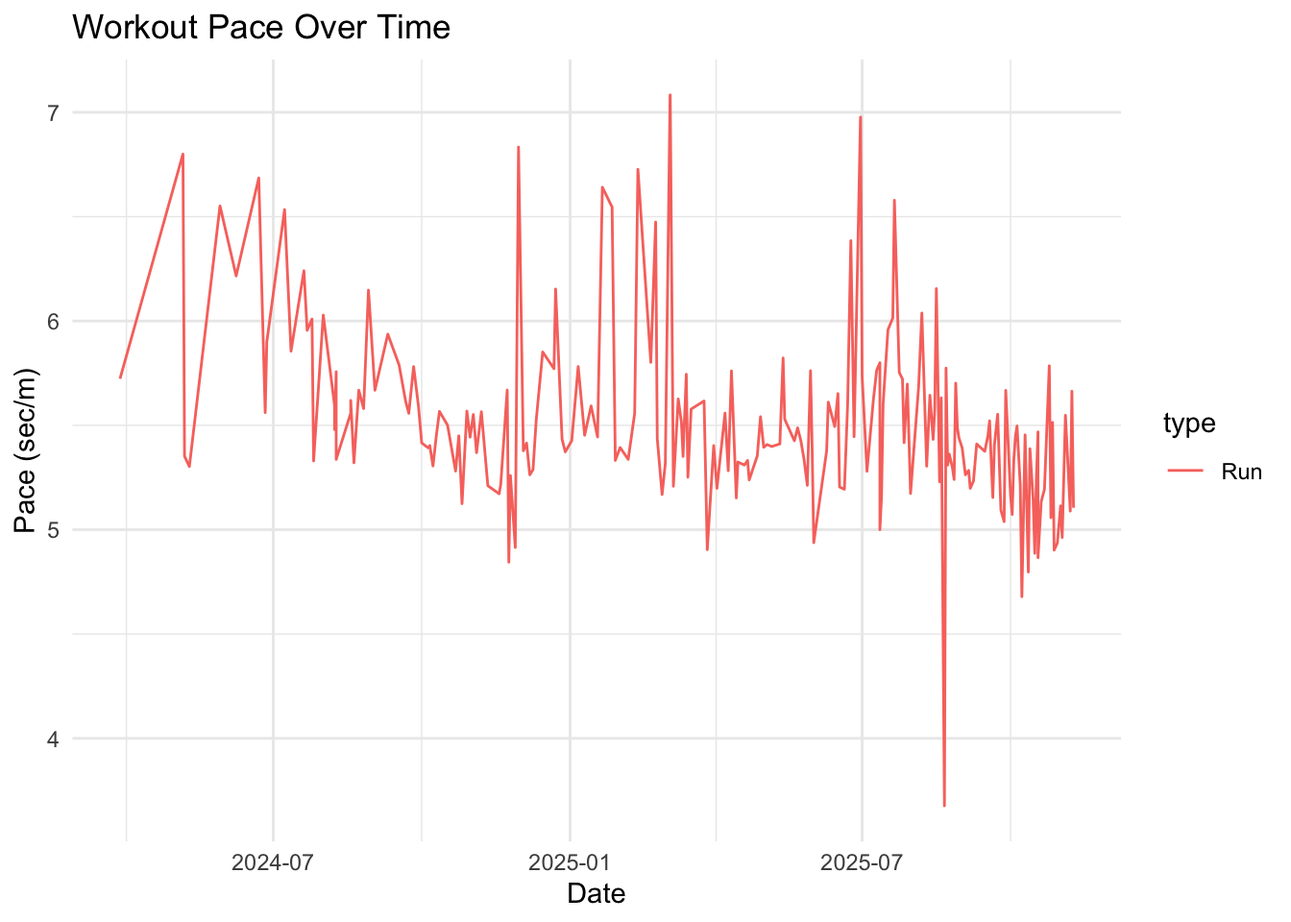
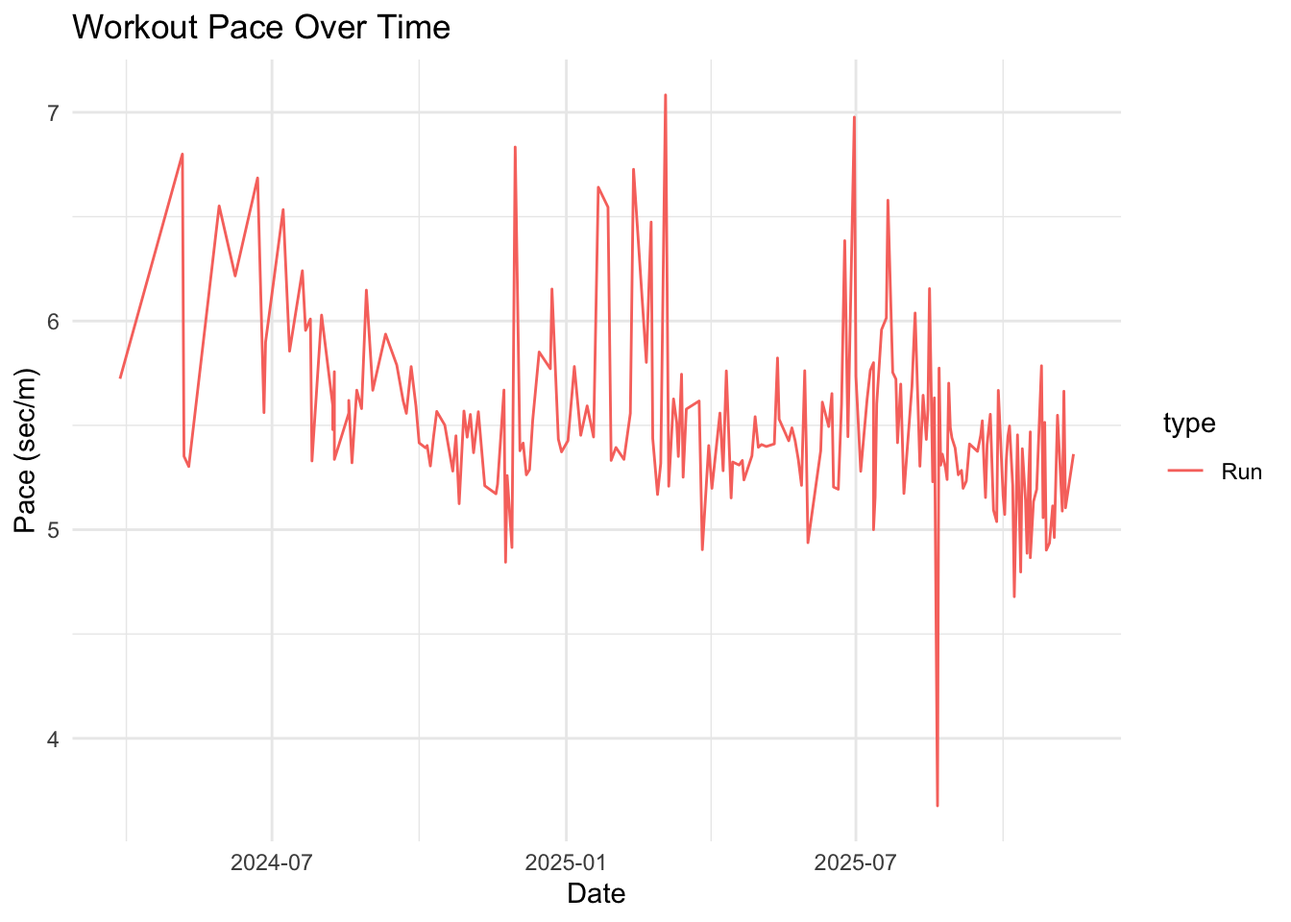
Built site for gh-pages

diff --git a/index.html b/index.html
@@ -174,8 +174,8 @@ ul.task-list li input[type="checkbox"] {
 <pre><code>Pace: 8 minutes 13 seconds per mile</code></pre>
 </div>
 <div class="cell-output-display">
-<div class="leaflet html-widget html-fill-item" id="htmlwidget-19a93bd866503c4d781c" style="width:100%;height:464px;"></div>
-<script type="application/json" data-for="htmlwidget-19a93bd866503c4d781c">{"x":{"options":{"crs":{"crsClass":"L.CRS.EPSG3857","code":null,"proj4def":null,"projectedBounds":null,"options":{}}},"calls":[{"method":"addProviderTiles","args":["CartoDB.Positron",null,null,{"errorTileUrl":"","noWrap":false,"detectRetina":false}]},{"method":"addPolylines","args":[[[[{"lng":[-89.38617706298828,-89.38417816162109,-89.38420867919922,-89.38466644287109,-89.38553619384766,-89.38676452636719,-89.38721466064453,-89.39302062988281,-89.39389038085938,-89.39460754394531,-89.39500427246094,-89.39512634277344,-89.40042877197266,-89.400634765625,-89.40062713623047,-89.39989471435547,-89.39975738525391,-89.39962005615234,-89.39823913574219,-89.39754486083984,-89.39686584472656,-89.3948974609375,-89.39380645751953,-89.38981628417969,-89.3896484375,-89.38962554931641,-89.38981628417969,-89.39023590087891,-89.39030456542969,-89.39180755615234,-89.39206695556641,-89.39263916015625,-89.39280700683594,-89.39421081542969,-89.39888000488281,-89.400390625,-89.40058135986328,-89.40092468261719,-89.40139007568359,-89.40185546875,-89.40255737304688,-89.40374755859375,-89.40403747558594,-89.40455627441406,-89.40499877929688,-89.40705871582031,-89.40819549560547,-89.40867614746094,-89.40945434570312,-89.40950775146484,-89.40937042236328,-89.41098022460938,-89.41127014160156,-89.41159057617188,-89.41215515136719,-89.41563415527344,-89.41870880126953,-89.41999053955078,-89.42061614990234,-89.42122650146484,-89.42158508300781,-89.42106628417969,-89.42116546630859,-89.42144012451172,-89.42205810546875,-89.42473602294922,-89.42605590820312,-89.42673492431641,-89.42756652832031,-89.42866516113281,-89.43008422851562,-89.43183898925781,-89.43265533447266,-89.43280792236328,-89.43251037597656,-89.43270874023438,-89.43318939208984,-89.43415069580078,-89.434814453125,-89.43644714355469,-89.43783569335938,-89.43853759765625,-89.43909454345703,-89.43944549560547,-89.4404296875,-89.44168090820312,-89.4434814453125,-89.44352722167969,-89.442626953125,-89.44198608398438,-89.44094848632812,-89.44060516357422,-89.44027709960938,-89.43877410888672,-89.43869781494141,-89.43743133544922,-89.43698883056641,-89.43650054931641,-89.43638610839844,-89.43626403808594,-89.43465423583984,-89.43210601806641,-89.43148803710938,-89.43074035644531,-89.43003082275391,-89.42978668212891,-89.42982482910156,-89.42927551269531,-89.4285888671875,-89.42723846435547,-89.42659759521484,-89.42649078369141,-89.42673492431641,-89.42470550537109,-89.42457580566406,-89.42450714111328,-89.42401123046875,-89.42388153076172,-89.4237060546875,-89.42269134521484,-89.42179107666016,-89.42058563232422,-89.41925048828125,-89.41774749755859,-89.41713714599609,-89.41695404052734,-89.41671752929688,-89.41593933105469,-89.41419982910156,-89.41300964355469,-89.41156768798828,-89.40950775146484,-89.40800476074219,-89.40708923339844,-89.40693664550781,-89.40689086914062,-89.40695953369141,-89.40719604492188,-89.40719604492188,-89.40705108642578,-89.40427398681641,-89.40412902832031,-89.40409088134766,-89.4041748046875,-89.40718078613281,-89.40727996826172,-89.40700531005859,-89.40443420410156,-89.40410614013672,-89.40407562255859,-89.4029541015625,-89.40200042724609,-89.40068817138672,-89.39933776855469,-89.39907073974609,-89.39918518066406,-89.39912414550781,-89.39852905273438,-89.39675140380859,-89.394287109375,-89.3941650390625,-89.39408111572266,-89.39376068115234,-89.39350891113281,-89.38821411132812,-89.38753509521484,-89.38746643066406,-89.38800048828125,-89.38636016845703,-89.38489532470703,-89.3841552734375,-89.38373565673828,-89.38328552246094,-89.38069915771484,-89.37820434570312,-89.37819671630859,-89.37884521484375,-89.37873077392578,-89.36464691162109,-89.3641357421875,-89.3624267578125,-89.36203002929688,-89.36157989501953,-89.35930633544922,-89.35842895507812,-89.35528564453125,-89.35463714599609,-89.35409545898438,-89.35395050048828,-89.35256958007812,-89.35066986083984,-89.34878540039062,-89.34865570068359,-89.34862518310547,-89.34735107421875,-89.34587860107422,-89.34521484375,-89.34442138671875,-89.34130096435547,-89.34102630615234,-89.34074401855469,-89.34025573730469,-89.33941650390625,-89.33818817138672,-89.33757781982422,-89.33699798583984,-89.33661651611328,-89.33636474609375,-89.33576965332031,-89.33052825927734,-89.32950592041016,-89.32838439941406,-89.32619476318359,-89.32467651367188,-89.32412719726562,-89.32400512695312,-89.32421875,-89.32577514648438,-89.32615661621094,-89.32772827148438,-89.32807922363281,-89.32965850830078,-89.33110046386719,-89.33219909667969,-89.33300018310547,-89.33422088623047,-89.33470153808594,-89.33541107177734,-89.33713531494141,-89.33793640136719,-89.3385009765625,-89.339111328125,-89.34032440185547,-89.34125518798828,-89.342041015625,-89.34186553955078,-89.34111022949219,-89.34101867675781,-89.34211730957031,-89.34317016601562,-89.34333801269531,-89.34421539306641,-89.34605407714844,-89.34661865234375,-89.34809875488281,-89.34886932373047,-89.34993743896484,-89.35054016113281,-89.35071563720703,-89.35049438476562,-89.34999847412109,-89.34957885742188,-89.34930419921875,-89.34909820556641,-89.34859466552734,-89.34706878662109,-89.34609985351562,-89.34317779541016,-89.3424072265625,-89.34153747558594,-89.33872985839844,-89.33815765380859,-89.33782958984375,-89.33673095703125,-89.33690643310547,-89.33693695068359,-89.33631896972656,-89.33751678466797,-89.33792877197266,-89.33824920654297,-89.33884429931641,-89.34044647216797,-89.34133148193359,-89.34220886230469,-89.34283447265625,-89.34418487548828,-89.34800720214844,-89.34947967529297,-89.35105895996094,-89.35299682617188,-89.353515625,-89.35422515869141,-89.35492706298828,-89.355224609375,-89.35573577880859,-89.35601806640625,-89.35691070556641,-89.35868835449219,-89.36054992675781,-89.36123657226562,-89.36261749267578,-89.36374664306641,-89.36521148681641,-89.36686706542969,-89.36722564697266,-89.36857604980469,-89.37039947509766,-89.37275695800781,-89.373291015625,-89.37411499023438,-89.37429809570312,-89.37535858154297,-89.37580871582031,-89.37699890136719,-89.37741088867188,-89.37764739990234,-89.37738037109375,-89.37738800048828,-89.37774658203125,-89.37897491455078,-89.37926483154297,-89.37973785400391,-89.38002777099609,-89.38053894042969,-89.38182067871094,-89.38238525390625,-89.38318634033203,-89.38396453857422,-89.38399505615234,-89.38414764404297,-89.38858032226562,-89.38868713378906,-89.38874053955078,-89.38868713378906,-89.3895263671875,-89.38967132568359,-89.3939208984375,-89.39486694335938,-89.396728515625,-89.39735412597656,-89.39815521240234,-89.39965057373047,-89.39972686767578,-89.39947509765625,-89.39769744873047,-89.39735412597656,-89.39688110351562,-89.39576721191406,-89.39537048339844,-89.39493560791016,-89.38676452636719,-89.38637542724609,-89.38565826416016,-89.38315582275391],"lat":[43.07470703125,43.07312774658203,43.07294845581055,43.07270050048828,43.0720100402832,43.07122039794922,43.07080841064453,43.06670761108398,43.06628036499023,43.06670761108398,43.06682968139648,43.06678771972656,43.06314849853516,43.06288909912109,43.06214904785156,43.06206893920898,43.06197738647461,43.0595703125,43.05769729614258,43.05709838867188,43.05691909790039,43.05709838867188,43.05693817138672,43.05685806274414,43.05678939819336,43.05561828613281,43.0540885925293,43.05386734008789,43.05304718017578,43.05019760131836,43.04986953735352,43.04977035522461,43.04912948608398,43.04917907714844,43.04975891113281,43.05047988891602,43.05075836181641,43.05307769775391,43.05437850952148,43.05508041381836,43.05584716796875,43.05680847167969,43.05673980712891,43.05627822875977,43.05612945556641,43.05622863769531,43.05619812011719,43.05598831176758,43.05487060546875,43.05431747436523,43.05254745483398,43.05009078979492,43.04977035522461,43.04964828491211,43.04962921142578,43.04969787597656,43.04891967773438,43.04890060424805,43.04874801635742,43.04847717285156,43.04803848266602,43.04631805419922,43.04595947265625,43.04567718505859,43.04554748535156,43.04559707641602,43.04575729370117,43.04573822021484,43.04547882080078,43.04487991333008,43.04433059692383,43.04330825805664,43.04242706298828,43.04153060913086,43.03976821899414,43.03911972045898,43.03867721557617,43.03833770751953,43.03822708129883,43.03818893432617,43.03850936889648,43.03881072998047,43.03923034667969,43.03936767578125,43.0394401550293,43.03936004638672,43.03947067260742,43.04016876220703,43.04065704345703,43.0411491394043,43.04229736328125,43.04308700561523,43.04442977905273,43.04727935791016,43.04837036132812,43.0495491027832,43.05035781860352,43.05093002319336,43.05183792114258,43.05215072631836,43.05326843261719,43.05495834350586,43.05475997924805,43.05484008789062,43.05527877807617,43.05532836914062,43.05545043945312,43.05580902099609,43.05608749389648,43.05701065063477,43.05727005004883,43.05751800537109,43.05854797363281,43.05996704101562,43.05996704101562,43.05982971191406,43.05657958984375,43.05606842041016,43.05596923828125,43.05616760253906,43.0565185546875,43.05755996704102,43.05862808227539,43.05953979492188,43.05936813354492,43.05870056152344,43.0584602355957,43.05820846557617,43.05804824829102,43.0583381652832,43.05836868286133,43.05810928344727,43.05835723876953,43.05831909179688,43.05856704711914,43.05938720703125,43.0618782043457,43.06214904785156,43.06306076049805,43.06313705444336,43.06313705444336,43.06319046020508,43.06341934204102,43.0641975402832,43.06427764892578,43.06628799438477,43.06639862060547,43.0664176940918,43.06652069091797,43.06986999511719,43.07014846801758,43.07012939453125,43.06975936889648,43.06917953491211,43.06932830810547,43.06990051269531,43.07077026367188,43.07086944580078,43.07087707519531,43.07080078125,43.0706901550293,43.0700798034668,43.06977844238281,43.06974029541016,43.07347869873047,43.07405853271484,43.07415771484375,43.07469940185547,43.07479858398438,43.07574844360352,43.07647705078125,43.07666778564453,43.07706069946289,43.07873916625977,43.08055877685547,43.0806999206543,43.08124923706055,43.08141708374023,43.09130859375,43.09117889404297,43.09033966064453,43.09008026123047,43.08951950073242,43.08826065063477,43.08795928955078,43.0859375,43.08622741699219,43.08588027954102,43.08589935302734,43.08686828613281,43.08863830566406,43.08913803100586,43.08927917480469,43.08964920043945,43.08971786499023,43.0899772644043,43.0903205871582,43.08995056152344,43.08993911743164,43.09000015258789,43.0903205871582,43.09051895141602,43.09040832519531,43.09083938598633,43.09066772460938,43.0907096862793,43.09092712402344,43.09138870239258,43.09151077270508,43.08971786499023,43.08926773071289,43.0884895324707,43.08625793457031,43.08272933959961,43.08123016357422,43.08052825927734,43.07954025268555,43.07695770263672,43.07590866088867,43.07577896118164,43.0748291015625,43.0732307434082,43.07209777832031,43.07148742675781,43.07133865356445,43.07159805297852,43.07160949707031,43.07146072387695,43.07085037231445,43.07154846191406,43.07160949707031,43.07138824462891,43.07021713256836,43.06887054443359,43.0682487487793,43.06808853149414,43.06784820556641,43.06769943237305,43.06694030761719,43.06719970703125,43.06715774536133,43.06644058227539,43.06570816040039,43.06517028808594,43.06422805786133,43.06284713745117,43.06142807006836,43.05999755859375,43.05912780761719,43.05819702148438,43.05749893188477,43.05714797973633,43.05706024169922,43.05717849731445,43.05788040161133,43.05921936035156,43.06024932861328,43.05886077880859,43.05860900878906,43.05857849121094,43.0589599609375,43.0588493347168,43.05854034423828,43.05598831176758,43.05406951904297,43.05222702026367,43.05014038085938,43.04969024658203,43.05068969726562,43.05113983154297,43.05104064941406,43.05098724365234,43.05084991455078,43.05032730102539,43.05023956298828,43.04977035522461,43.05011749267578,43.04987716674805,43.04946899414062,43.04961776733398,43.04961013793945,43.04941940307617,43.04908752441406,43.04879760742188,43.04784774780273,43.047607421875,43.04718780517578,43.04669952392578,43.04705810546875,43.04701995849609,43.04673004150391,43.04621887207031,43.04496002197266,43.04436874389648,43.04405975341797,43.04417037963867,43.04462051391602,43.0460205078125,43.04648971557617,43.04685974121094,43.0471076965332,43.04776763916016,43.04818725585938,43.04975891113281,43.05049896240234,43.05109786987305,43.05136871337891,43.05147933959961,43.05239868164062,43.0536994934082,43.05392074584961,43.05416870117188,43.05414962768555,43.0536994934082,43.05347061157227,43.05355834960938,43.05312728881836,43.05318832397461,43.0540885925293,43.05422973632812,43.0543098449707,43.05439758300781,43.05482864379883,43.05596923828125,43.05606842041016,43.05681991577148,43.05695724487305,43.05709838867188,43.05693817138672,43.05703735351562,43.05760955810547,43.0595588684082,43.06269073486328,43.06301879882812,43.06319046020508,43.06373977661133,43.06417846679688,43.06497955322266,43.06507873535156,43.06549072265625,43.07125854492188,43.07172012329102,43.07204818725586,43.07394027709961]}]]],null,null,{"interactive":true,"className":"","stroke":true,"color":"blue","weight":4,"opacity":0.5,"fill":false,"fillColor":"blue","fillOpacity":0.2,"smoothFactor":1,"noClip":false},null,null,null,{"interactive":false,"permanent":false,"direction":"auto","opacity":1,"offset":[0,0],"textsize":"10px","textOnly":false,"className":"","sticky":true},null]},{"method":"addMarkers","args":[43.07394027709961,-89.38315582275391,null,null,null,{"interactive":true,"draggable":false,"keyboard":true,"title":"","alt":"","zIndexOffset":0,"opacity":1,"riseOnHover":false,"riseOffset":250},"🏁 Madison Marathon 2025",null,null,null,null,{"interactive":false,"permanent":false,"direction":"auto","opacity":1,"offset":[0,0],"textsize":"10px","textOnly":false,"className":"","sticky":true},null]}],"limits":{"lat":[43.03818893432617,43.09151077270508],"lng":[-89.44352722167969,-89.32400512695312]}},"evals":[],"jsHooks":[]}</script>
+<div class="leaflet html-widget html-fill-item" id="htmlwidget-68bea0c8e76a400081c7" style="width:100%;height:464px;"></div>
+<script type="application/json" data-for="htmlwidget-68bea0c8e76a400081c7">{"x":{"options":{"crs":{"crsClass":"L.CRS.EPSG3857","code":null,"proj4def":null,"projectedBounds":null,"options":{}}},"calls":[{"method":"addProviderTiles","args":["CartoDB.Positron",null,null,{"errorTileUrl":"","noWrap":false,"detectRetina":false}]},{"method":"addPolylines","args":[[[[{"lng":[-89.38617706298828,-89.38417816162109,-89.38420867919922,-89.38466644287109,-89.38553619384766,-89.38676452636719,-89.38721466064453,-89.39302062988281,-89.39389038085938,-89.39460754394531,-89.39500427246094,-89.39512634277344,-89.40042877197266,-89.400634765625,-89.40062713623047,-89.39989471435547,-89.39975738525391,-89.39962005615234,-89.39823913574219,-89.39754486083984,-89.39686584472656,-89.3948974609375,-89.39380645751953,-89.38981628417969,-89.3896484375,-89.38962554931641,-89.38981628417969,-89.39023590087891,-89.39030456542969,-89.39180755615234,-89.39206695556641,-89.39263916015625,-89.39280700683594,-89.39421081542969,-89.39888000488281,-89.400390625,-89.40058135986328,-89.40092468261719,-89.40139007568359,-89.40185546875,-89.40255737304688,-89.40374755859375,-89.40403747558594,-89.40455627441406,-89.40499877929688,-89.40705871582031,-89.40819549560547,-89.40867614746094,-89.40945434570312,-89.40950775146484,-89.40937042236328,-89.41098022460938,-89.41127014160156,-89.41159057617188,-89.41215515136719,-89.41563415527344,-89.41870880126953,-89.41999053955078,-89.42061614990234,-89.42122650146484,-89.42158508300781,-89.42106628417969,-89.42116546630859,-89.42144012451172,-89.42205810546875,-89.42473602294922,-89.42605590820312,-89.42673492431641,-89.42756652832031,-89.42866516113281,-89.43008422851562,-89.43183898925781,-89.43265533447266,-89.43280792236328,-89.43251037597656,-89.43270874023438,-89.43318939208984,-89.43415069580078,-89.434814453125,-89.43644714355469,-89.43783569335938,-89.43853759765625,-89.43909454345703,-89.43944549560547,-89.4404296875,-89.44168090820312,-89.4434814453125,-89.44352722167969,-89.442626953125,-89.44198608398438,-89.44094848632812,-89.44060516357422,-89.44027709960938,-89.43877410888672,-89.43869781494141,-89.43743133544922,-89.43698883056641,-89.43650054931641,-89.43638610839844,-89.43626403808594,-89.43465423583984,-89.43210601806641,-89.43148803710938,-89.43074035644531,-89.43003082275391,-89.42978668212891,-89.42982482910156,-89.42927551269531,-89.4285888671875,-89.42723846435547,-89.42659759521484,-89.42649078369141,-89.42673492431641,-89.42470550537109,-89.42457580566406,-89.42450714111328,-89.42401123046875,-89.42388153076172,-89.4237060546875,-89.42269134521484,-89.42179107666016,-89.42058563232422,-89.41925048828125,-89.41774749755859,-89.41713714599609,-89.41695404052734,-89.41671752929688,-89.41593933105469,-89.41419982910156,-89.41300964355469,-89.41156768798828,-89.40950775146484,-89.40800476074219,-89.40708923339844,-89.40693664550781,-89.40689086914062,-89.40695953369141,-89.40719604492188,-89.40719604492188,-89.40705108642578,-89.40427398681641,-89.40412902832031,-89.40409088134766,-89.4041748046875,-89.40718078613281,-89.40727996826172,-89.40700531005859,-89.40443420410156,-89.40410614013672,-89.40407562255859,-89.4029541015625,-89.40200042724609,-89.40068817138672,-89.39933776855469,-89.39907073974609,-89.39918518066406,-89.39912414550781,-89.39852905273438,-89.39675140380859,-89.394287109375,-89.3941650390625,-89.39408111572266,-89.39376068115234,-89.39350891113281,-89.38821411132812,-89.38753509521484,-89.38746643066406,-89.38800048828125,-89.38636016845703,-89.38489532470703,-89.3841552734375,-89.38373565673828,-89.38328552246094,-89.38069915771484,-89.37820434570312,-89.37819671630859,-89.37884521484375,-89.37873077392578,-89.36464691162109,-89.3641357421875,-89.3624267578125,-89.36203002929688,-89.36157989501953,-89.35930633544922,-89.35842895507812,-89.35528564453125,-89.35463714599609,-89.35409545898438,-89.35395050048828,-89.35256958007812,-89.35066986083984,-89.34878540039062,-89.34865570068359,-89.34862518310547,-89.34735107421875,-89.34587860107422,-89.34521484375,-89.34442138671875,-89.34130096435547,-89.34102630615234,-89.34074401855469,-89.34025573730469,-89.33941650390625,-89.33818817138672,-89.33757781982422,-89.33699798583984,-89.33661651611328,-89.33636474609375,-89.33576965332031,-89.33052825927734,-89.32950592041016,-89.32838439941406,-89.32619476318359,-89.32467651367188,-89.32412719726562,-89.32400512695312,-89.32421875,-89.32577514648438,-89.32615661621094,-89.32772827148438,-89.32807922363281,-89.32965850830078,-89.33110046386719,-89.33219909667969,-89.33300018310547,-89.33422088623047,-89.33470153808594,-89.33541107177734,-89.33713531494141,-89.33793640136719,-89.3385009765625,-89.339111328125,-89.34032440185547,-89.34125518798828,-89.342041015625,-89.34186553955078,-89.34111022949219,-89.34101867675781,-89.34211730957031,-89.34317016601562,-89.34333801269531,-89.34421539306641,-89.34605407714844,-89.34661865234375,-89.34809875488281,-89.34886932373047,-89.34993743896484,-89.35054016113281,-89.35071563720703,-89.35049438476562,-89.34999847412109,-89.34957885742188,-89.34930419921875,-89.34909820556641,-89.34859466552734,-89.34706878662109,-89.34609985351562,-89.34317779541016,-89.3424072265625,-89.34153747558594,-89.33872985839844,-89.33815765380859,-89.33782958984375,-89.33673095703125,-89.33690643310547,-89.33693695068359,-89.33631896972656,-89.33751678466797,-89.33792877197266,-89.33824920654297,-89.33884429931641,-89.34044647216797,-89.34133148193359,-89.34220886230469,-89.34283447265625,-89.34418487548828,-89.34800720214844,-89.34947967529297,-89.35105895996094,-89.35299682617188,-89.353515625,-89.35422515869141,-89.35492706298828,-89.355224609375,-89.35573577880859,-89.35601806640625,-89.35691070556641,-89.35868835449219,-89.36054992675781,-89.36123657226562,-89.36261749267578,-89.36374664306641,-89.36521148681641,-89.36686706542969,-89.36722564697266,-89.36857604980469,-89.37039947509766,-89.37275695800781,-89.373291015625,-89.37411499023438,-89.37429809570312,-89.37535858154297,-89.37580871582031,-89.37699890136719,-89.37741088867188,-89.37764739990234,-89.37738037109375,-89.37738800048828,-89.37774658203125,-89.37897491455078,-89.37926483154297,-89.37973785400391,-89.38002777099609,-89.38053894042969,-89.38182067871094,-89.38238525390625,-89.38318634033203,-89.38396453857422,-89.38399505615234,-89.38414764404297,-89.38858032226562,-89.38868713378906,-89.38874053955078,-89.38868713378906,-89.3895263671875,-89.38967132568359,-89.3939208984375,-89.39486694335938,-89.396728515625,-89.39735412597656,-89.39815521240234,-89.39965057373047,-89.39972686767578,-89.39947509765625,-89.39769744873047,-89.39735412597656,-89.39688110351562,-89.39576721191406,-89.39537048339844,-89.39493560791016,-89.38676452636719,-89.38637542724609,-89.38565826416016,-89.38315582275391],"lat":[43.07470703125,43.07312774658203,43.07294845581055,43.07270050048828,43.0720100402832,43.07122039794922,43.07080841064453,43.06670761108398,43.06628036499023,43.06670761108398,43.06682968139648,43.06678771972656,43.06314849853516,43.06288909912109,43.06214904785156,43.06206893920898,43.06197738647461,43.0595703125,43.05769729614258,43.05709838867188,43.05691909790039,43.05709838867188,43.05693817138672,43.05685806274414,43.05678939819336,43.05561828613281,43.0540885925293,43.05386734008789,43.05304718017578,43.05019760131836,43.04986953735352,43.04977035522461,43.04912948608398,43.04917907714844,43.04975891113281,43.05047988891602,43.05075836181641,43.05307769775391,43.05437850952148,43.05508041381836,43.05584716796875,43.05680847167969,43.05673980712891,43.05627822875977,43.05612945556641,43.05622863769531,43.05619812011719,43.05598831176758,43.05487060546875,43.05431747436523,43.05254745483398,43.05009078979492,43.04977035522461,43.04964828491211,43.04962921142578,43.04969787597656,43.04891967773438,43.04890060424805,43.04874801635742,43.04847717285156,43.04803848266602,43.04631805419922,43.04595947265625,43.04567718505859,43.04554748535156,43.04559707641602,43.04575729370117,43.04573822021484,43.04547882080078,43.04487991333008,43.04433059692383,43.04330825805664,43.04242706298828,43.04153060913086,43.03976821899414,43.03911972045898,43.03867721557617,43.03833770751953,43.03822708129883,43.03818893432617,43.03850936889648,43.03881072998047,43.03923034667969,43.03936767578125,43.0394401550293,43.03936004638672,43.03947067260742,43.04016876220703,43.04065704345703,43.0411491394043,43.04229736328125,43.04308700561523,43.04442977905273,43.04727935791016,43.04837036132812,43.0495491027832,43.05035781860352,43.05093002319336,43.05183792114258,43.05215072631836,43.05326843261719,43.05495834350586,43.05475997924805,43.05484008789062,43.05527877807617,43.05532836914062,43.05545043945312,43.05580902099609,43.05608749389648,43.05701065063477,43.05727005004883,43.05751800537109,43.05854797363281,43.05996704101562,43.05996704101562,43.05982971191406,43.05657958984375,43.05606842041016,43.05596923828125,43.05616760253906,43.0565185546875,43.05755996704102,43.05862808227539,43.05953979492188,43.05936813354492,43.05870056152344,43.0584602355957,43.05820846557617,43.05804824829102,43.0583381652832,43.05836868286133,43.05810928344727,43.05835723876953,43.05831909179688,43.05856704711914,43.05938720703125,43.0618782043457,43.06214904785156,43.06306076049805,43.06313705444336,43.06313705444336,43.06319046020508,43.06341934204102,43.0641975402832,43.06427764892578,43.06628799438477,43.06639862060547,43.0664176940918,43.06652069091797,43.06986999511719,43.07014846801758,43.07012939453125,43.06975936889648,43.06917953491211,43.06932830810547,43.06990051269531,43.07077026367188,43.07086944580078,43.07087707519531,43.07080078125,43.0706901550293,43.0700798034668,43.06977844238281,43.06974029541016,43.07347869873047,43.07405853271484,43.07415771484375,43.07469940185547,43.07479858398438,43.07574844360352,43.07647705078125,43.07666778564453,43.07706069946289,43.07873916625977,43.08055877685547,43.0806999206543,43.08124923706055,43.08141708374023,43.09130859375,43.09117889404297,43.09033966064453,43.09008026123047,43.08951950073242,43.08826065063477,43.08795928955078,43.0859375,43.08622741699219,43.08588027954102,43.08589935302734,43.08686828613281,43.08863830566406,43.08913803100586,43.08927917480469,43.08964920043945,43.08971786499023,43.0899772644043,43.0903205871582,43.08995056152344,43.08993911743164,43.09000015258789,43.0903205871582,43.09051895141602,43.09040832519531,43.09083938598633,43.09066772460938,43.0907096862793,43.09092712402344,43.09138870239258,43.09151077270508,43.08971786499023,43.08926773071289,43.0884895324707,43.08625793457031,43.08272933959961,43.08123016357422,43.08052825927734,43.07954025268555,43.07695770263672,43.07590866088867,43.07577896118164,43.0748291015625,43.0732307434082,43.07209777832031,43.07148742675781,43.07133865356445,43.07159805297852,43.07160949707031,43.07146072387695,43.07085037231445,43.07154846191406,43.07160949707031,43.07138824462891,43.07021713256836,43.06887054443359,43.0682487487793,43.06808853149414,43.06784820556641,43.06769943237305,43.06694030761719,43.06719970703125,43.06715774536133,43.06644058227539,43.06570816040039,43.06517028808594,43.06422805786133,43.06284713745117,43.06142807006836,43.05999755859375,43.05912780761719,43.05819702148438,43.05749893188477,43.05714797973633,43.05706024169922,43.05717849731445,43.05788040161133,43.05921936035156,43.06024932861328,43.05886077880859,43.05860900878906,43.05857849121094,43.0589599609375,43.0588493347168,43.05854034423828,43.05598831176758,43.05406951904297,43.05222702026367,43.05014038085938,43.04969024658203,43.05068969726562,43.05113983154297,43.05104064941406,43.05098724365234,43.05084991455078,43.05032730102539,43.05023956298828,43.04977035522461,43.05011749267578,43.04987716674805,43.04946899414062,43.04961776733398,43.04961013793945,43.04941940307617,43.04908752441406,43.04879760742188,43.04784774780273,43.047607421875,43.04718780517578,43.04669952392578,43.04705810546875,43.04701995849609,43.04673004150391,43.04621887207031,43.04496002197266,43.04436874389648,43.04405975341797,43.04417037963867,43.04462051391602,43.0460205078125,43.04648971557617,43.04685974121094,43.0471076965332,43.04776763916016,43.04818725585938,43.04975891113281,43.05049896240234,43.05109786987305,43.05136871337891,43.05147933959961,43.05239868164062,43.0536994934082,43.05392074584961,43.05416870117188,43.05414962768555,43.0536994934082,43.05347061157227,43.05355834960938,43.05312728881836,43.05318832397461,43.0540885925293,43.05422973632812,43.0543098449707,43.05439758300781,43.05482864379883,43.05596923828125,43.05606842041016,43.05681991577148,43.05695724487305,43.05709838867188,43.05693817138672,43.05703735351562,43.05760955810547,43.0595588684082,43.06269073486328,43.06301879882812,43.06319046020508,43.06373977661133,43.06417846679688,43.06497955322266,43.06507873535156,43.06549072265625,43.07125854492188,43.07172012329102,43.07204818725586,43.07394027709961]}]]],null,null,{"interactive":true,"className":"","stroke":true,"color":"blue","weight":4,"opacity":0.5,"fill":false,"fillColor":"blue","fillOpacity":0.2,"smoothFactor":1,"noClip":false},null,null,null,{"interactive":false,"permanent":false,"direction":"auto","opacity":1,"offset":[0,0],"textsize":"10px","textOnly":false,"className":"","sticky":true},null]},{"method":"addMarkers","args":[43.07394027709961,-89.38315582275391,null,null,null,{"interactive":true,"draggable":false,"keyboard":true,"title":"","alt":"","zIndexOffset":0,"opacity":1,"riseOnHover":false,"riseOffset":250},"🏁 Madison Marathon 2025",null,null,null,null,{"interactive":false,"permanent":false,"direction":"auto","opacity":1,"offset":[0,0],"textsize":"10px","textOnly":false,"className":"","sticky":true},null]}],"limits":{"lat":[43.03818893432617,43.09151077270508],"lng":[-89.44352722167969,-89.32400512695312]}},"evals":[],"jsHooks":[]}</script>
 </div>
 </div>
 

diff --git a/strava.html b/strava.html
@@ -247,9 +247,9 @@ Attaching package: 'dplyr'</code></pre>
 <span id="cb10-11"><a href="#cb10-11" aria-hidden="true" tabindex="-1"></a>recent</span></code><button title="Copy to Clipboard" class="code-copy-button"><i class="bi"></i></button></pre></div>
 <div class="cell-output cell-output-stdout">
 <pre><code>        date distance_miles moving_time_min average_heartrate type
-1 2025-11-09          26.28           215.9             164.3  Run
-                                                                                                                                                                                                                                                                                                                                                                                                                                                                                                                                                                                                                                                                                                                                                                                                                                                                                                                                                                                                                                                                                                                                                                                                                                                                                  map.summary_polyline
-1 }_|eGrfq`PzHoKb@Dp@zAhClD|CtFpAxArXfc@tAlDuAnCWnAFVvUb`@r@h@rCANqCP[`N[tJsGvBiCb@gCc@iK^yEN}WLa@hFCpHd@j@rAbDLxPjH`Ar@RpB~B`@IvGsBd\\oClHw@d@oMdAcGzAkC|AyCjC_ElFLx@zAfB\\vASzKDbFh@~A~EzClBH`J[jN`I~@x@V~@BpBMvTzCdRB~F\\|Bt@xBvAfAvIgBfARv@t@XzBIvO_@fGBfCr@dDvBzElBzGjE|InDbDrD\\~I{@`Cf@vA~AbA~DTdCFdI_AtG{@jCsAnB[dAMbENxFUfJkCHaBsDaB_CeFoE}CcAkGaAyPkHyEOkF}FaDwAqBaBuDU}@W_FaIqI}Nf@{BOuCwAmCIo@WFgAmBw@iCwDmGs@_Cq@UmEp@{GuK?YZMhScBdBYRa@g@kEeAsDoEoFuEkGuDkH`@yBdCc@n@o@p@{C^{Iy@mFE_Hr@{Kq@kHFwDq@]cDIqNLu@n@uD?O]?iPI]m@G{CPOvQqKRUu@CaOSaA}SEw@_FB_EhAeGrBmG]u@qBVmDKSwBAcJNkNTWxBQz@_AFq@kVa`@sBgCSMkBhBSgI}DcHqCsCe@sAmAyAoIeOkJqN[AmB`Ca@Wy|@_wAXeBfDuIr@oAnByAzFeMz@oDrKsRy@aCdAkBC]aEsGaJ{JcBwJ[YiAEM_Gs@eHcAcChA_D@oRKu@_Aw@g@aBTgDuAuF`@yBGsBk@kA{Aq@WwBdJw_@xAkEzC_F|LuL`UoHjHmBjCWdEh@bOvHpEjAXxH|DdA~HzH`F~GxBzE\\~Cs@rFA~A\\lCxBxIkC~CKnBj@xBhFrFlGxDzBzC^a@n@wC\\QvCzEs@pEF`@nCnDpCnJjBnBzDfHrGxCzGtE|GvBlDb@xDk@jCcBdAsAPu@Wi@kCcBkGqHmEaEtGgQp@yCDmDkAqPTqB|@aA|N{E~Jb@nJD`L{BxAnFgEpAyA~@RvBH~HZnDfBnDP|B|AlGeAzVn@dHpAzH]bK@fBd@lC`AjCx@z@|DdBn@v@rApD`BbJgArJFhCx@rGdB`FzFbHtBjI|@fAUlGyAjJwGvM}AhBiAdDq@b@cCrEsAxAyHlFsCpAwBn@u@u@U@wDfAcGtFk@x@q@|ABx@xAdBl@~FQpBtA~CKzCsDD[\\OtZQTuAHcFISfDuCZ[pY[|D^rJS|BqB~CeKhHqRNaAq@a@cJmBcAwA_B_D}ESoAqAuAac@ar@{AmAaAoCyJsN</code></pre>
+1 2025-11-14           5.75            49.6             134.4  Run
+                                                                                                                                                                                                                                                                                                                                                                                                                                                                                                                                                                                                                                                                                                                                                                                                                                                                                                                                                                                                                                             map.summary_polyline
+1 _{{eG~bs`PKAWDY?E@W@WGQGI@]JKTCL@lBIt@@v@Cf@AFEBU@e@KeA?i@LQ@UGc@Bw@Ce@JUCKBIFERAdABzAB\\KtABv@Cl@SlC[pCU`EAzABb@EfBNx@YpBEh@Ip@A\\Il@CdA@`AAlBGrAG\\KnC_@dEYvAWtBS~@Up@c@dAUt@IRCL?l@Jj@@\\AbBBd@AP@jCAz@F~ATdBArBVxA?p@Bn@CpAQ`BMl@KX]fBa@jAOv@O`@U|@E^?TDVJNhAbAdAdAZf@Zz@L~@PtCEnAG\\YlCOj@Ud@i@~@c@n@u@v@s@j@EJuAxA]d@u@r@GNA\\Wl@MJ]?OFOLQZ[Xe@p@_@t@Uj@Sv@[~@qAhCU`@MLa@\\]RQBU@s@Le@B[Ho@FYF_AHm@Xa@FIAe@gAMa@G_@KyCGc@Ay@Iu@GSy@cBUs@_@w@Oi@UoAAW@cACe@@_ACs@GYGgAIgBMu@O_@KmACSUk@k@uB_@y@k@}@u@aCGMg@o@Uo@k@qCYaAcCgDSc@Wu@MSOMg@SOK_BeCEK?UEMIMWCABDNJRTRj@n@z@rAXRZJLHJNfAvBdBnCTd@ZdBXhA\\z@|@|AVhATd@b@n@\\x@n@tBVdAHx@N^N`AFvA?z@N~@?tABb@?~@VbCFTdB`EX~@D\\@f@LpBFhBFXHZZl@?FB@BHFHD@RATCf@S~@KL?r@OX?j@OVA`AOPMf@U\\_@Xo@^m@Nc@NS~@wCj@kAv@gAn@u@HE`@CLI`BwC`BmBtBuBtA}B^_AT}BLw@@[?aACu@Eo@Ii@UaASi@Wc@s@{@]_@e@[[a@GSCs@NaAVs@b@}AVq@P_AZqADm@Jo@?_BByAGg@Qw@[iP?eBEm@Ky@Fi@f@aBp@eBLc@r@wELeAJeBNoADsBLgBAwCDsATuCZeCASMa@AW?m@FO@YEQAUDc@BsARyC@m@RmALcAFqBB[?i@HkBEsB@gAHYHMr@]LEfCMXHZ?VHX?J@RC\\BNCFG@EAwAB{BA_@D]BGTOLAn@@PCJENCv@AJJ</code></pre>
 </div>
 </div>
 

diff --git a/Untitled.html b/Untitled.html
@@ -210,10 +210,10 @@ Attaching package: 'lubridate'</code></pre>
 <pre><code>Auto-refreshing stale OAuth token.</code></pre>
 </div>
 <div class="cell-output cell-output-stderr">
-<pre><code>✅ Saved 407 activities to 'data/strava_activities.csv'</code></pre>
+<pre><code>✅ Saved 409 activities to 'data/strava_activities.csv'</code></pre>
 </div>
 <div class="cell-output cell-output-stderr">
-<pre><code>🏃 Most recent activity: Run — 26.28 miles in 215.9 min on 2025-11-09.</code></pre>
+<pre><code>🏃 Most recent activity: Run — 5.75 miles in 49.6 min on 2025-11-14.</code></pre>
 </div>
 </div>
 
